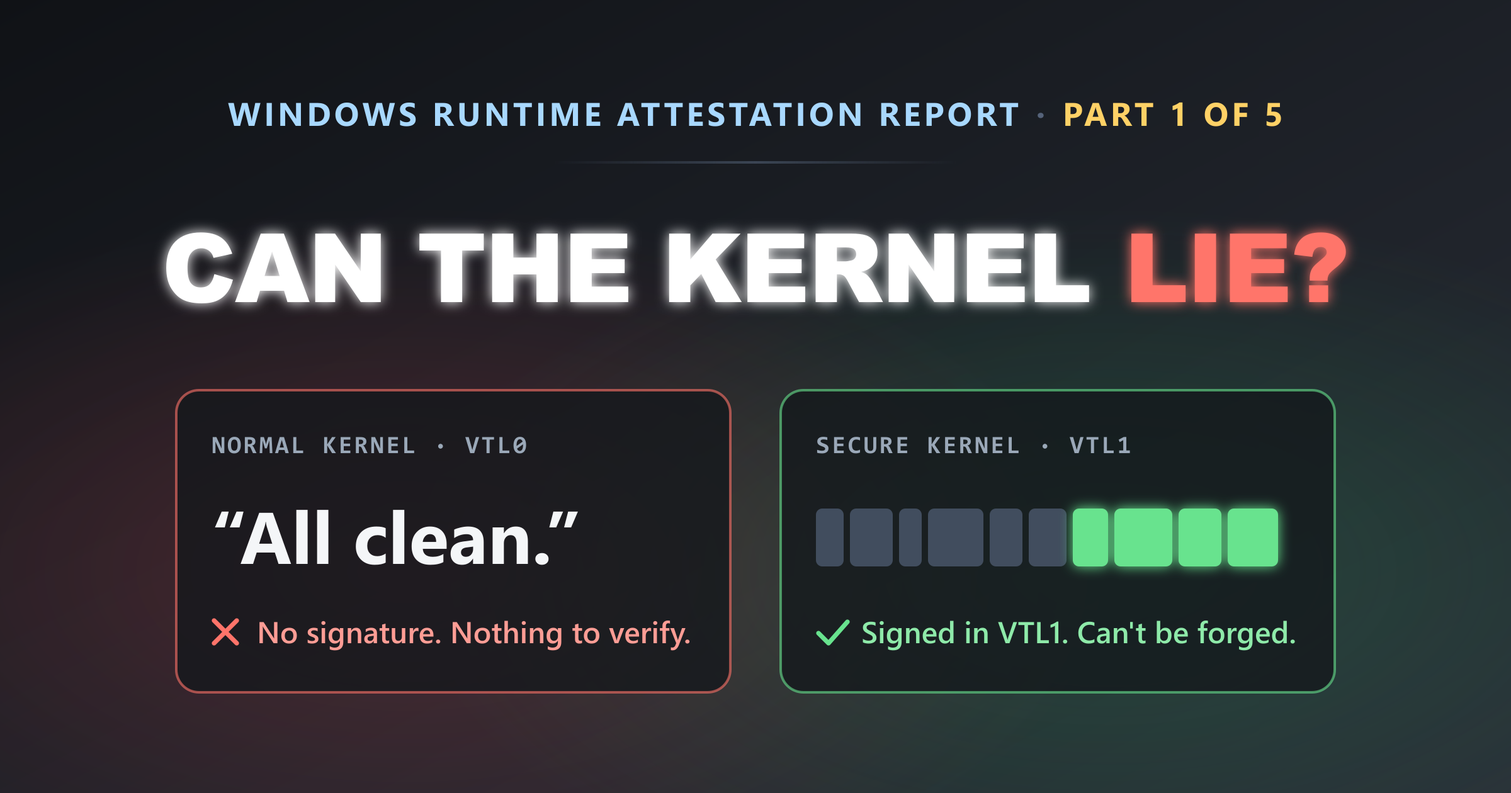
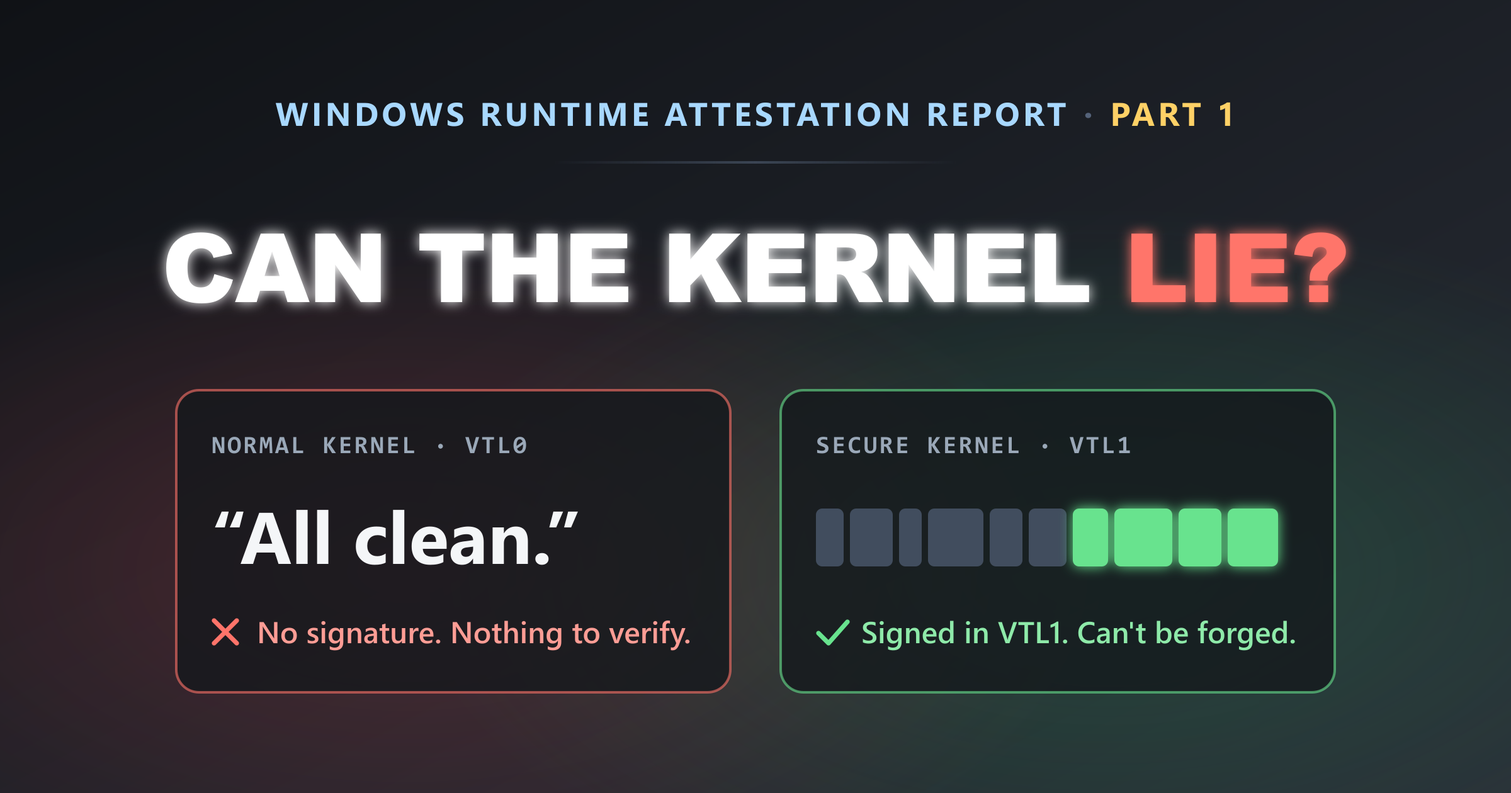
Restructure Post 1 as problem-first, six-post series
Post 1 now covers the problem, where existing attestation stops, and a
first look at the report. The trust model and verification sections
move to seed drafts for Parts 2 and 6. Heroes drop the series total,
and the hotpatch post becomes Part 4.

Copilot-Session: 1466d9e8-30fc-473e-a57c-11063a055c92

Changed region(s): [[0.1562, 0.1238, 0.8438, 0.1857]]

diff --git a/_drafts/runtime-attestation-report-wip.md b/_drafts/runtime-attestation-report-wip.md
@@ -16,7 +16,7 @@ tags:
 - Anti-Cheat
 - Attestation
 blog: true
-description: "How the Windows Runtime Attestation Report gives a remote server signed evidence about kernel state, even when the normal kernel may be compromised."
+description: "Why a compromised PC can't vouch for itself, where existing attestation stops, and how the Windows Runtime Attestation Report gives a server signed evidence about the running kernel."
 ---
 
 The nastiest game cheats don't live in the game, and the nastiest malware doesn't live in your apps. Both run in kernel mode, where user-mode software simply can't see them.
@@ -27,50 +27,67 @@ That leaves security software asking the kernel what is loaded and what has chan
 
 A hacked computer will happily lie to you about being hacked.
 
-Windows now has a way out of this, and it's genuinely one of my favourite things we've shipped. It's called the Windows Runtime Attestation Report. A single Win32 API, [`GetRuntimeAttestationReport`](https://learn.microsoft.com/windows/win32/api/sysinfoapi/nf-sysinfoapi-getruntimeattestationreport){: target="_blank" rel="noopener" }, returns a package of facts about the machine, signed by a part of Windows that the normal kernel cannot reach. Even a fully compromised normal kernel can't forge that signature.
+![Kernel mode holds a security driver and an attacker's driver side by side at the same privilege level. User mode, below, cannot see into the kernel.](/assets/images/attestation/same-privilege.svg){: .shadow }
+_Security software followed the attackers into the kernel, and neither one is above the other._
 
-![On the left, a hacked normal kernel answers 'all clean' with a red warning. On the right, the Secure Kernel hands back a signed report the hacked kernel cannot forge.](/assets/images/attestation/kernel-lies.svg){: .shadow }
-_The report still travels out through VTL0. Verification happens later, on your server._
+Windows now has a way out of this, and it's genuinely one of my favourite things we've shipped. It's called the Windows Runtime Attestation Report. This post covers the problem it solves, why the attestation that already existed doesn't solve it, and what the report gives you instead. The rest of the series goes into how it works.
 
 > A note on where this comes from: I work on the Windows Secure Kernel team at Microsoft, and I built the Runtime Attestation Report.
 {: .prompt-info }
 
 Anti-cheat is the example I'll use most in this post, because it is the easiest to picture. The same problem exists for any service that has to make a trust decision about a machine it can't inspect, and I'll come back to those cases at the end.
 
-## Who are you proving this to?
+## Why the machine can't vouch for itself
 
 Look at what failed in that scenario. The thing being inspected was also the thing answering the questions, and asking harder or more cleverly doesn't change that.
 
 The decision therefore has to be made somewhere the attacker cannot reach, which in practice is a remote server. The machine collects facts about itself and sends them to that server, which decides whether to trust it.
 
-That only works if the machine cannot alter those facts on the way out. A signed report doesn't un-hack a compromised machine. It removes the attacker's ability to rewrite the evidence once the Secure Kernel has produced it.
-
 This is remote attestation: a machine proving facts about itself to a party that has no reason to believe it.
 
-Remote attestation is usually associated with the TPM and measured boot, where the machine records what it loaded during startup so that a server can check the boot chain afterwards. That answers a different question. Measured boot describes how the machine started; it does not describe a driver that loaded twenty minutes ago or a patch applied since. The Runtime Attestation Report covers the state of the machine at the moment of the request, which is where the "runtime" in the name comes from.
+It only works if the facts come from a part of the machine the attacker doesn't control, and can't be altered on the way to the server. So there are two questions to ask of any attestation scheme: who produces the evidence, and what does the evidence cover?
 
-## An answer the kernel can't forge
+## What exists today, and where it stops
 
-The answer cannot come from the normal kernel, since that is the part that might be compromised. It has to come from somewhere the attacker cannot follow.
+Remote attestation isn't new. Three kinds are in wide use, and each one answers those two questions differently. Here they are next to the report:
 
-On a lot of Windows 11 machines, [Virtualization Based Security](https://learn.microsoft.com/windows-hardware/design/device-experiences/oem-vbs){: target="_blank" rel="noopener" } is already enabled. With VBS, Windows runs two kernels instead of one. The normal kernel---the one that drivers, security software and kernel-mode malware all run in---is isolated by the hypervisor. On the other side of that boundary is a second kernel, much smaller and more trusted: the Secure Kernel.
+![A comparison of four kinds of attestation. Measured boot is produced by firmware and boot code and stops after startup. Linux IMA is produced by the Linux kernel, which measures itself, and doesn't cover changes in memory after load. Enclave attestation covers the code inside the enclave and not the state of the OS around it. The Runtime Attestation Report is produced by the Secure Kernel and covers the Windows kernel at the time of the request.](/assets/images/attestation/attestation-compared.svg){: .shadow }
+_Who produces the evidence, what it covers, and where it stops._
 
-The normal world is called VTL0 and the secure world, where the Secure Kernel runs, is VTL1. Even an attacker with full control of VTL0 cannot read VTL1 memory or run code there, because the hypervisor and the CPU's virtualization hardware enforce the boundary. That is the assumption behind everything in this post: the attacker may control the normal kernel, but the hypervisor and the Secure Kernel are intact.
+### Measured boot
 
-VTL0 is not cut off entirely, or there would be no API to call. It can make requests through a fixed set of calls that VTL1 chooses to answer.
+This is the one most people think of. As a Windows machine starts, the firmware [records in the TPM](https://learn.microsoft.com/windows/security/operating-system-security/system-security/secure-the-windows-10-boot-process){: target="_blank" rel="noopener" } a hash of the firmware, the boot loader, the boot drivers and everything else that loads before the anti-malware driver. A server can later ask for those measurements, signed by the TPM, and check that the machine started the way it should have.
 
-The Secure Kernel holds a private signing key that VTL0 never sees. It signs every package with that key, and your server checks the signature against the matching public key.
+Measured boot describes how the machine started. It does not describe a driver that loaded twenty minutes ago or a patch applied since.
 
-There's a detail here that's easy to get wrong. Your server has to trust that public key *before* the package arrives. If it accepts whatever key is sent along with the package, a compromised machine can generate its own key pair, sign anything it likes and send the matching public key, and the check will pass while proving nothing. That trust is rooted in the TPM. During boot, Windows measures a number of things into the TPM, and the Secure Kernel's public signing key is one of them. Your server replays that log of measurements, checks the result against values the TPM itself has signed, and only then accepts that the key came from a machine that booted the way it claims. So the TPM does have a role here: it anchors the key, while the report describes what is running now. My colleague Andrea Allievi has written about [how the TPM side of this works](https://www.andrea-allievi.com/blog/new-year-post-anti-cheat-evolution-in-windows-11/){: target="_blank" rel="noopener" }, and I'll cover the verification steps later in this series.
+### Runtime measurement on Linux
 
-![The VBS trust boundary: VTL0 carries a signed package across the boundary but cannot alter it; the Secure Kernel in VTL1 holds the signing key VTL0 never sees.](/assets/images/attestation/trust-boundary.svg){: .shadow }
-_VTL0 asks and VTL1 answers, which is also how your server's challenge gets across._
+Linux goes further with the [Integrity Measurement Architecture](https://ima-doc.readthedocs.io/en/latest/ima-concepts.html){: target="_blank" rel="noopener" } (IMA). Depending on policy, IMA hashes files as they are opened, executed or loaded as kernel modules. It appends each hash to a log and extends a TPM register with it, so a server can check that the log hasn't been edited.
 
-Everything in VTL0, including the application that requests the report, acts as an untrusted courier carrying a sealed envelope. It can read the contents or fail to deliver them, but any change to the contents breaks the seal.
+That covers the time after boot. But IMA is part of the Linux kernel, so the measuring is done by the kernel being measured. It also measures a file when the file is loaded, and changes made in memory afterwards are out of its scope.
 
-One more point matters for anyone writing policy. A verified package proves that the Secure Kernel produced it. It does not say where the Secure Kernel got each fact. A notary's stamp works the same way: it proves the document was signed in front of the notary and says nothing about whether the contents are true. Some fields in a report are measured by VTL1 itself, while others are supplied by VTL0 and recorded as given. Both are covered by the same signature, so a policy needs to know which is which. The [hotpatch post](/secure-hotpatch-report/) shows exactly where that line falls for one report type.
+### Enclave attestation
 
-## What the package contains
+The third kind comes from trusted execution environments such as Intel SGX, AWS Nitro Enclaves and VBS enclaves on Windows. An enclave is a small isolated region that the rest of the system can't read or modify. It can produce a signed statement about itself: which code is running inside it, and that the platform underneath is genuine. On Windows the call is [`EnclaveGetAttestationReport`](https://learn.microsoft.com/windows/win32/api/winenclaveapi/nf-winenclaveapi-enclavegetattestationreport){: target="_blank" rel="noopener" }, which returns a report that "describes the current enclave".
+
+That is the right evidence if you need to know that your code is running untouched inside the enclave. It says nothing about the state of the operating system around the enclave, which is what anti-cheat or EDR wants to know.
+
+## The Windows Runtime Attestation Report
+
+None of those three tells a server what a Windows kernel has loaded *right now*, in a form that kernel can't rewrite. The Runtime Attestation Report is built for that gap. A single Win32 API, [`GetRuntimeAttestationReport`](https://learn.microsoft.com/windows/win32/api/sysinfoapi/nf-sysinfoapi-getruntimeattestationreport){: target="_blank" rel="noopener" }, returns a package of facts about the machine as it is at the moment of the call, which is where the "runtime" in the name comes from.
+
+The normal kernel doesn't produce or sign that package. On a machine with [Virtualization Based Security](https://learn.microsoft.com/windows-hardware/design/device-experiences/oem-vbs){: target="_blank" rel="noopener" } enabled, Windows runs a second, much smaller kernel called the Secure Kernel, and the hypervisor isolates it from the normal one. The Secure Kernel signs every package with a key the normal kernel never sees, so even a fully compromised normal kernel can't forge that signature.
+
+Windows calls the normal world VTL0 and the secure world VTL1. You'll see those names in the figures and through the rest of the series, and Part 2 covers how the isolation works and why a server can rely on it.
+
+Measured boot still has a job here: it is how a server comes to trust the Secure Kernel's signing key, which Part 6 covers.
+
+![On the left, a hacked normal kernel answers 'all clean' with a red warning. On the right, the Secure Kernel hands back a signed report the hacked kernel cannot forge.](/assets/images/attestation/kernel-lies.svg){: .shadow }
+_The report still travels out through VTL0. Verification happens later, on your server._
+
+Each request also carries a fresh random value chosen by your server, and the Secure Kernel signs that value into the package. An old package doesn't contain the new value, so it can't be passed off as a current one.
+
+### What's in a package
 
 The package works like an envelope with several documents inside, and each document is a report of a particular type:
 
@@ -95,52 +112,16 @@ Here is the top of a package from the sample, run on a test machine:
   signature : RSA-PSS SHA-512
 ```
 
-The package holds two reports in about ten kilobytes, with a single signature that authenticates both through their digests. A later post covers the format field by field. For now, the important detail is that the list of report types in the package is *inside* the signed part, which matters once the attacker has the kernel.
+The package holds two reports in about ten kilobytes, with a single signature that authenticates both through their digests. Part 3 covers the format field by field.
 
 ![A signed outer envelope containing a fresh challenge and the Driver, Hotpatch, and Code Integrity report types defined by the Windows SDK. This series focuses on Driver and Hotpatch.](/assets/images/attestation/one-package.svg){: .shadow }
 _The list of report types in the package sits inside the signed part, so your server can tell when one is missing._
 
-## How the round trip works
+### What a report doesn't do
 
-The code is in the next post, but it helps to know the shape of the exchange first.
+A signed report doesn't un-hack a compromised machine. It removes the attacker's ability to rewrite the evidence once the Secure Kernel has produced it.
 
-1. Your server picks a fresh random number and sends it to the machine as a challenge.
-2. Your app calls `GetRuntimeAttestationReport`, saying which reports it wants and passing along that challenge.
-3. The Secure Kernel builds each requested report and puts them in one package.
-4. It signs the package, with your challenge inside it, and hands it back to your app.
-5. Your app sends the signed package to your server.
-6. Your server verifies it using a public key it already trusts, then checks that the challenge inside is the exact one it just sent.
-7. If both hold, your server checks that every report its policy needs is in the package, then reads the facts and applies that policy.
-
-![A numbered round trip: the server sends a fresh challenge, the app calls the API, the Secure Kernel produces a signed package, the app returns it, and the server verifies the package with a trusted key before applying policy.](/assets/images/attestation/attestation-roundtrip.svg){: .shadow }
-_Steps 1, 6 and 7 are your server's responsibility. The app in the middle is only a courier and never has to be trusted._
-
-The challenge in step 1 is a nonce, and it prevents replay. Without it, an attacker could capture one valid package from a healthy machine and resend it indefinitely, long after the machine was compromised. Because your server picks an unpredictable value each time and requires the same value inside the signed package, an old package no longer matches. A server that doesn't generate the nonce, or doesn't check it on return, gains nothing from it.
-
-## Now give the attacker the kernel
-
-Assume the attacker controls the entire normal kernel, while the hypervisor and the Secure Kernel are intact. These are the moves available.
-
-**Tamper.** The attacker modifies the package, for example by removing a driver entry. Every report is bound to the signature through its digest, so any change makes verification fail and your server discards the package.
-
-**Replay.** The attacker sends an old package, either one your server accepted earlier or one taken from another machine. That package contains a different challenge from the one in the current request, so your server rejects it.
-
-**Ask for less.** The policy requires the driver report, so the compromised app requests only the hotpatch report and returns a package that is valid but incomplete. This is where the signed list of report types matters. The package states which report types it contains, the attacker cannot edit that list, and your server rejects any package that is missing a report its policy requires.
-
-**Suppress.** The attacker blocks the call, drops the response, or runs with VBS disabled so that no report can be produced. An attacker can always stop a report from arriving. Whether a missing report counts as a failure is up to your server's policy.
-
-None of these moves produces a valid VTL1 signature, because the signing key is out of the attacker's reach.
-
-![An attacker in control of VTL0 tries to tamper with, replay, trim, and suppress the package; verification catches the first three, suppression leaves you with no answer, and forging a new signature is impossible without the VTL1 key.](/assets/images/attestation/attacker-moves.svg){: .shadow }
-_Verification catches tampering and replay, and tells your server when a required report is missing. A missing package is a separate policy case._
-
-There are three limitations to be aware of.
-
-A report is a snapshot. It describes the machine up to the moment the Secure Kernel built it and says nothing about what happens afterwards, so a driver loaded a second later is not in it. The driver report helps here, because it also keeps entries for drivers that have since been unloaded, so the next report still shows that driver. This is why a service should request reports repeatedly, at times the machine cannot predict.
-
-A report is also narrow. The driver report covers drivers and the hotpatch report covers hotpatched images. Neither says anything about malware running in user mode, for example. Consequently, a clean report is not the same thing as a clean machine.
-
-The third limitation is a relay. A compromised machine can forward the challenge to a second, healthy machine, let that machine produce a genuine signed package, and return it to your server as its own. The nonce does not catch this, because both the signature and the challenge are genuine; they simply came from the wrong computer. This is the [cuckoo attack](https://www.usenix.org/event/hotsec08/tech/full_papers/parno/parno_html/){: target="_blank" rel="noopener" }, described by Bryan Parno in 2008, and it is not specific to Windows: every remote attestation scheme has to deal with it. Tracing the key back through the TPM tells your server which machine produced a report, but not that it is the machine your server meant to check. It's a known gap, and the report doesn't solve it today.
+A report is also a snapshot, and each report type covers one thing, so a clean report is not the same thing as a clean machine. Part 6 goes through what your server has to check, and what an attacker can still do.
 
 ## What this is good for
 
@@ -164,11 +145,12 @@ The driver report requires Windows 11 25H2 or later with VBS and HVCI enabled. T
 
 The rest of the series:
 
-1. **This post.** Why a compromised kernel can't vouch for itself, and what a signed report does and doesn't prove.
-2. **The package and the API.** What comes back from the call field by field, and how to pull the reports out in code.
-3. **[The Secure Hotpatch Report](/secure-hotpatch-report/).** Telling a real Microsoft hotpatch apart from kernel tampering.
-4. **The driver report.** Every driver the machine has loaded, including the ones that are gone again, with the identity you need to spot an impostor.
-5. **Trusting the key.** How your server uses the TPM to decide the signing key belongs to a real Secure Kernel.
+1. **This post.** The problem, why existing attestation doesn't solve it, and a first look at the report.
+2. **Why you can believe it.** Two kernels, the signing key, and the round trip between your server and the machine.
+3. **The package and the API.** What comes back from the call field by field, and how to pull the reports out in code.
+4. **[The Secure Hotpatch Report](/secure-hotpatch-report/).** Telling a real Microsoft hotpatch apart from kernel tampering.
+5. **The driver report.** Every driver the machine has loaded, including the ones that are gone again, with the identity you need to spot an impostor.
+6. **Checking a report.** How your server uses the TPM to trust the signing key, what it has to verify, and what an attacker can still do.
 
 Thank you for reading! If something here is unclear, or you spot a mistake, let me know in the comments. I'd love to hear from you. :)
 

diff --git a/_drafts/runtime-attestation-trust-model-wip.md b/_drafts/runtime-attestation-trust-model-wip.md
@@ -1,0 +1,52 @@
+---
+title: "Part 2 working draft: why you can believe a Runtime Attestation Report"
+layout: post
+tags:
+- Security
+- Windows
+- VBS
+- Attestation
+blog: true
+description: "Working draft. Two kernels, the signing key, and the round trip behind the Windows Runtime Attestation Report."
+---
+
+> Raw material moved out of Part 1 on 2026-11-25 when the series became six posts. Not yet shaped into a post.
+{: .prompt-warning }
+
+## An answer the kernel can't forge
+
+The answer cannot come from the normal kernel, since that is the part that might be compromised. It has to come from somewhere the attacker cannot follow.
+
+On a lot of Windows 11 machines, [Virtualization Based Security](https://learn.microsoft.com/windows-hardware/design/device-experiences/oem-vbs){: target="_blank" rel="noopener" } is already enabled. With VBS, Windows runs two kernels instead of one. The normal kernel---the one that drivers, security software and kernel-mode malware all run in---is isolated by the hypervisor. On the other side of that boundary is a second kernel, much smaller and more trusted: the Secure Kernel.
+
+The normal world is called VTL0 and the secure world, where the Secure Kernel runs, is VTL1. Even an attacker with full control of VTL0 cannot read VTL1 memory or run code there, because the hypervisor and the CPU's virtualization hardware enforce the boundary. That is the assumption behind everything in this post: the attacker may control the normal kernel, but the hypervisor and the Secure Kernel are intact.
+
+VTL0 is not cut off entirely, or there would be no API to call. It can make requests through a fixed set of calls that VTL1 chooses to answer.
+
+The Secure Kernel holds a private signing key that VTL0 never sees. It signs every package with that key, and your server checks the signature against the matching public key.
+
+There's a detail here that's easy to get wrong. Your server has to trust that public key *before* the package arrives. If it accepts whatever key is sent along with the package, a compromised machine can generate its own key pair, sign anything it likes and send the matching public key, and the check will pass while proving nothing. That trust is rooted in the TPM. During boot, Windows measures a number of things into the TPM, and the Secure Kernel's public signing key is one of them. Your server replays that log of measurements, checks the result against values the TPM itself has signed, and only then accepts that the key came from a machine that booted the way it claims. So the TPM does have a role here: it anchors the key, while the report describes what is running now. My colleague Andrea Allievi has written about [how the TPM side of this works](https://www.andrea-allievi.com/blog/new-year-post-anti-cheat-evolution-in-windows-11/){: target="_blank" rel="noopener" }, and I'll cover the verification steps later in this series.
+
+![The VBS trust boundary: VTL0 carries a signed package across the boundary but cannot alter it; the Secure Kernel in VTL1 holds the signing key VTL0 never sees.](/assets/images/attestation/trust-boundary.svg){: .shadow }
+_VTL0 asks and VTL1 answers, which is also how your server's challenge gets across._
+
+Everything in VTL0, including the application that requests the report, acts as an untrusted courier carrying a sealed envelope. It can read the contents or fail to deliver them, but any change to the contents breaks the seal.
+
+One more point matters for anyone writing policy. A verified package proves that the Secure Kernel produced it. It does not say where the Secure Kernel got each fact. A notary's stamp works the same way: it proves the document was signed in front of the notary and says nothing about whether the contents are true. Some fields in a report are measured by VTL1 itself, while others are supplied by VTL0 and recorded as given. Both are covered by the same signature, so a policy needs to know which is which. The [hotpatch post](/secure-hotpatch-report/) shows exactly where that line falls for one report type.
+
+## How the round trip works
+
+The code is in the next post, but it helps to know the shape of the exchange first.
+
+1. Your server picks a fresh random number and sends it to the machine as a challenge.
+2. Your app calls `GetRuntimeAttestationReport`, saying which reports it wants and passing along that challenge.
+3. The Secure Kernel builds each requested report and puts them in one package.
+4. It signs the package, with your challenge inside it, and hands it back to your app.
+5. Your app sends the signed package to your server.
+6. Your server verifies it using a public key it already trusts, then checks that the challenge inside is the exact one it just sent.
+7. If both hold, your server checks that every report its policy needs is in the package, then reads the facts and applies that policy.
+
+![A numbered round trip: the server sends a fresh challenge, the app calls the API, the Secure Kernel produces a signed package, the app returns it, and the server verifies the package with a trusted key before applying policy.](/assets/images/attestation/attestation-roundtrip.svg){: .shadow }
+_Steps 1, 6 and 7 are your server's responsibility. The app in the middle is only a courier and never has to be trusted._
+
+The challenge in step 1 is a nonce, and it prevents replay. Without it, an attacker could capture one valid package from a healthy machine and resend it indefinitely, long after the machine was compromised. Because your server picks an unpredictable value each time and requires the same value inside the signed package, an old package no longer matches. A server that doesn't generate the nonce, or doesn't check it on return, gains nothing from it.

diff --git a/_drafts/runtime-attestation-verification-wip.md b/_drafts/runtime-attestation-verification-wip.md
@@ -1,0 +1,43 @@
+---
+title: "Part 6 working draft: checking a Runtime Attestation Report"
+layout: post
+tags:
+- Security
+- Windows
+- VBS
+- Attestation
+blog: true
+description: "Working draft. The chain of trust back to the TPM, what the server must verify, and what an attacker can still do."
+---
+
+> Raw material moved out of Part 1 on 2026-11-25 when the series became six posts. Not yet shaped into a post.
+{: .prompt-warning }
+
+## Trusting the key
+
+T
+
+## Now give the attacker the kernel
+
+Assume the attacker controls the entire normal kernel, while the hypervisor and the Secure Kernel are intact. These are the moves available.
+
+**Tamper.** The attacker modifies the package, for example by removing a driver entry. Every report is bound to the signature through its digest, so any change makes verification fail and your server discards the package.
+
+**Replay.** The attacker sends an old package, either one your server accepted earlier or one taken from another machine. That package contains a different challenge from the one in the current request, so your server rejects it.
+
+**Ask for less.** The policy requires the driver report, so the compromised app requests only the hotpatch report and returns a package that is valid but incomplete. This is where the signed list of report types matters. The package states which report types it contains, the attacker cannot edit that list, and your server rejects any package that is missing a report its policy requires.
+
+**Suppress.** The attacker blocks the call, drops the response, or runs with VBS disabled so that no report can be produced. An attacker can always stop a report from arriving. Whether a missing report counts as a failure is up to your server's policy.
+
+None of these moves produces a valid VTL1 signature, because the signing key is out of the attacker's reach.
+
+![An attacker in control of VTL0 tries to tamper with, replay, trim, and suppress the package; verification catches the first three, suppression leaves you with no answer, and forging a new signature is impossible without the VTL1 key.](/assets/images/attestation/attacker-moves.svg){: .shadow }
+_Verification catches tampering and replay, and tells your server when a required report is missing. A missing package is a separate policy case._
+
+There are three limitations to be aware of.
+
+A report is a snapshot. It describes the machine up to the moment the Secure Kernel built it and says nothing about what happens afterwards, so a driver loaded a second later is not in it. The driver report helps here, because it also keeps entries for drivers that have since been unloaded, so the next report still shows that driver. This is why a service should request reports repeatedly, at times the machine cannot predict.
+
+A report is also narrow. The driver report covers drivers and the hotpatch report covers hotpatched images. Neither says anything about malware running in user mode, for example. Consequently, a clean report is not the same thing as a clean machine.
+
+The third limitation is a relay. A compromised machine can forward the challenge to a second, healthy machine, let that machine produce a genuine signed package, and return it to your server as its own. The nonce does not catch this, because both the signature and the challenge are genuine; they simply came from the wrong computer. This is the [cuckoo attack](https://www.usenix.org/event/hotsec08/tech/full_papers/parno/parno_html/){: target="_blank" rel="noopener" }, described by Bryan Parno in 2008, and it is not specific to Windows: every remote attestation scheme has to deal with it. Tracing the key back through the TPM tells your server which machine produced a report, but not that it is the machine your server meant to check. It's a known gap, and the report doesn't solve it today.

diff --git a/_posts/2026-07-31-secure-hotpatch-report.md b/_posts/2026-07-31-secure-hotpatch-report.md
@@ -5,7 +5,7 @@ date: 2026-07-31 08:00
 last_modified_at: 2026-09-14
 image:
   path: /assets/images/hotpatch/hero-hotpatch.svg
-  alt: "Patch or attack? Part 3 of the Windows Runtime Attestation Report series: The Secure Hotpatch Report, above a strip of kernel-mode code with modified bytes highlighted."
+  alt: "Patch or attack? Part 4 of the Windows Runtime Attestation Report series: The Secure Hotpatch Report, above a strip of kernel-mode code with modified bytes highlighted."
 social_image:
   path: /assets/images/hotpatch/hero-hotpatch.png
   width: 2400
@@ -260,5 +260,5 @@ Thank you for reading! If something here is unclear, or you spot a mistake, let 
 > New to the series? The concept post is coming soon. In the meantime, grab the [sample repository](https://github.com/CodeMaxx/windows-runtime-attestation-report){: target="_blank" rel="noopener" } and try querying attestation state on your own test environments.
 {: .prompt-tip }
 
-> Note on post order: This article is Part 3 of my series. Because of multiple requests for details on the hotpatch attestation report, I am publishing this deep dive ahead of Parts 1 and 2 (the core Runtime Attestation Report architecture and report format posts). These companion posts are coming shortly.
+> Note on post order: This article is Part 4 of my series. Because of multiple requests for details on the hotpatch attestation report, I am publishing this deep dive ahead of Parts 1 to 3 (the core Runtime Attestation Report architecture and report format posts). These companion posts are coming shortly.
 {: .prompt-danger }
